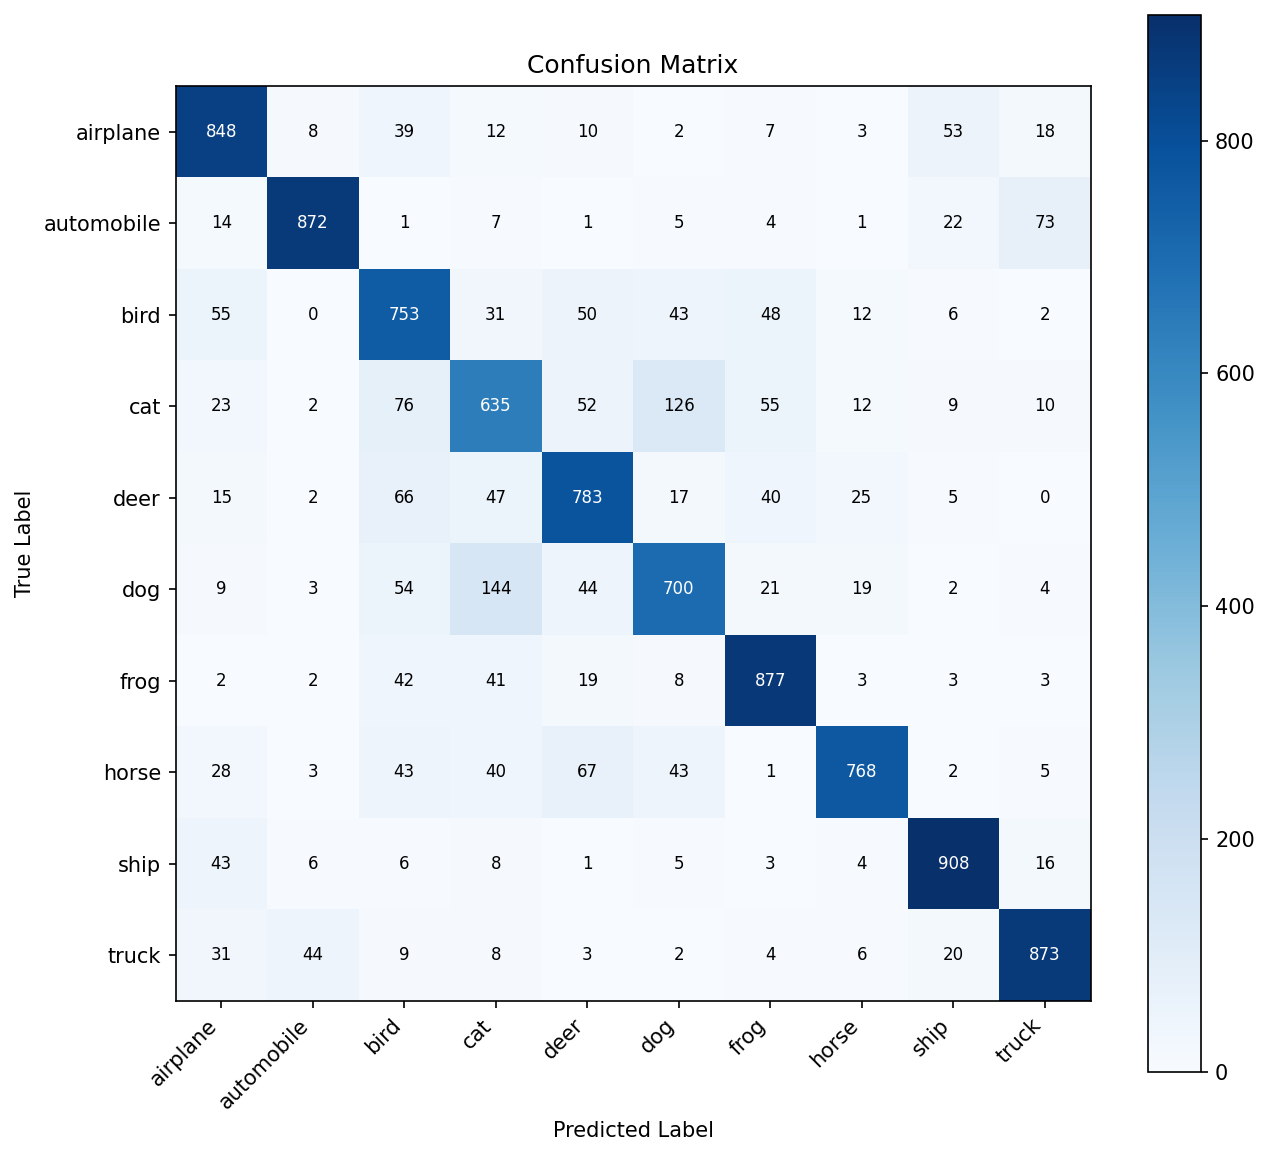
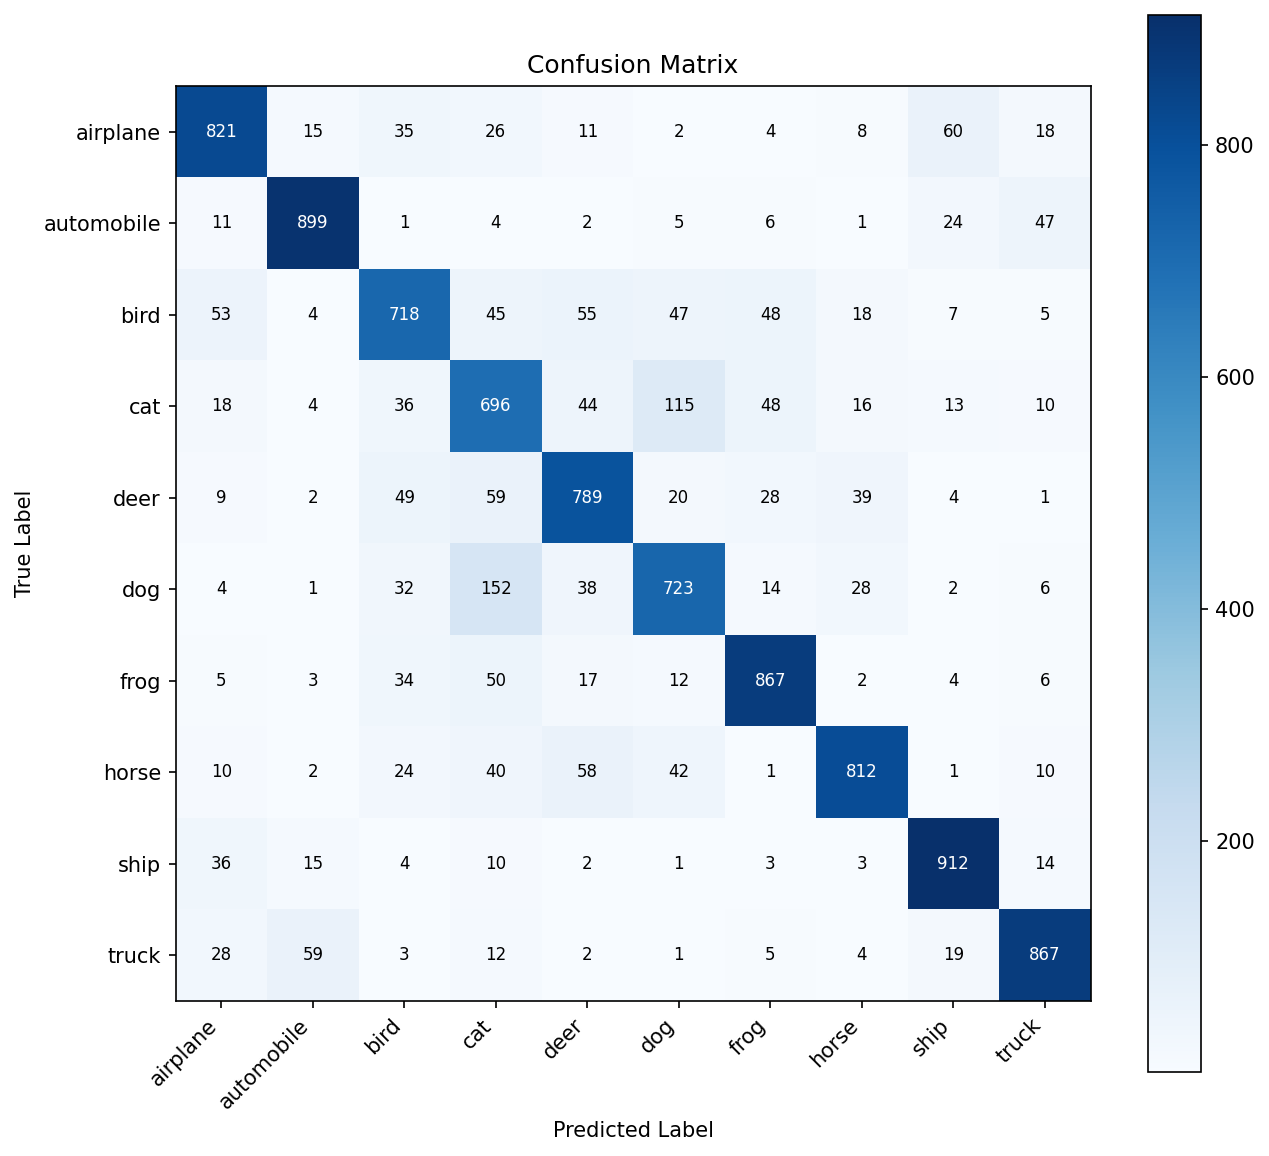
Update CIFAR-10 CNN project README with improved accuracy metrics and detailed training results. Enhance version descriptions and include visualizations for loss/accuracy curves and confusion matrix.

diff --git a/2_CIFAR10_CNN/README.md b/2_CIFAR10_CNN/README.md
@@ -8,9 +8,11 @@ A progressive CNN experiment on **CIFAR-10** (32x32 color images, 10 classes), e
 
 | Version | Description | Best Test Acc | Epochs | Key Change |
 |---------|------------|---------------|--------|------------|
-| v1 | Baseline CNN | **77.31%** | 20 (no early stop) | — |
-| v2 | + BatchNorm | **79.48%** | 17 (early stop) | BatchNorm after each Conv |
-| v3 | + LR Scheduler | — | — | ReduceLROnPlateau |
+| v1 | Baseline CNN | 77.31% | 20 / 20 | — |
+| v2 | + BatchNorm | 79.48% | 17 / 20 | BatchNorm after each Conv |
+| v3 | + LR Scheduler | **81.04%** | 32 / 50 | ReduceLROnPlateau |
+
+**Conclusion**: Scratch CNN ceiling is ~81%. Further gains require Transfer Learning or fundamentally different architectures.
 
 ---
 
@@ -37,13 +39,10 @@ Flatten → Linear(2048→256) → ReLU → Dropout(0.5)
 Linear(256→10)   ← raw logits for 10 classes
 ```
 
-### v2 — BatchNorm (`CIFAR10_CNN_BN`)
+### v2/v3 — BatchNorm (`CIFAR10_CNN_BN`)
 
 Same architecture, but each conv block becomes **Conv → BN → ReLU → Pool**.
-
-### v3 — LR Scheduler
-
-Same model as v2, with `ReduceLROnPlateau(mode='max', factor=0.5, patience=3)` added to adaptively halve the learning rate when test accuracy plateaus.
+v3 uses the same model as v2, with `ReduceLROnPlateau(mode='max', factor=0.5, patience=3)` to adaptively halve the learning rate when test accuracy plateaus.
 
 ---
 
@@ -73,7 +72,24 @@ Same model as v2, with `ReduceLROnPlateau(mode='max', factor=0.5, patience=3)` a
 
 ### v3 — LR Scheduler
 
-> Not yet trained. Run `python scripts/train_v3_scheduler.py` to generate results.
+| Metric | Value |
+|--------|-------|
+| Best Test Accuracy | **81.04%** (+1.56%) |
+| Stopped at Epoch | 32 / 50 (Early Stopping) |
+| Overfitting Gap | ~16% (Train 97% vs Test 81%) |
+
+![v3 Loss & Accuracy](results/v3_scheduler/loss_acc_curves.png)
+![v3 Confusion Matrix](results/v3_scheduler/confusion_matrix.png)
+
+#### LR Schedule Timeline
+
+```
+Epoch  1-19:  LR = 0.001000  (initial)
+Epoch 20:     LR = 0.000500  ← 1st reduction
+Epoch 26:     LR = 0.000250  ← 2nd reduction
+Epoch 31:     LR = 0.000125  ← 3rd reduction
+Epoch 32:     Early stopping triggered
+```
 
 ---
 
@@ -86,16 +102,32 @@ CIFAR-10 images are 32x32 RGB — more complex than MNIST's 28x28 grayscale. A t
 - **+2.17% test accuracy** (77.31% → 79.48%)
 - **Overfitting reduced**: the train-test gap shrank from ~15% to ~8%
 - **Faster convergence**: BN stabilizes internal activations, allowing the model to learn more efficiently
-- **Earlier stopping**: early stopping triggered at epoch 17 (v1 ran all 20 epochs)
+- **Earlier stopping**: early stopping triggered at epoch 17 (v1 ran all 20 epochs without triggering)
+
+### LR Scheduler Effect (v2 → v3)
+- **+1.56% test accuracy** (79.48% → 81.04%)
+- **Scheduler "rescued" the model from early stopping**: at epoch 19, patience was 3/5 and the model was stalling. LR reduction let it break through to 80.48% at epoch 21
+- **Diminishing returns per LR reduction**: 0.001→0.0005 gave +0.48%, 0.0005→0.00025 gave +0.28%, 0.00025→0.000125 gave nothing — a clear sign the architecture has hit its capacity limit
+- **Overfitting worsened**: BN had reduced the gap to ~8%, but the scheduler let training run longer (32 epochs), pushing the gap back to ~16%. Test accuracy went up slightly, but test loss kept rising — the model was getting more confident on its wrong predictions
 
 ### Most Confused Classes
-Both v1 and v2 consistently struggle with:
-- **cat ↔ dog** (similar body shapes, textures)
-- **cat → dog**: 133 (v1), 178 (v2)
-- **dog → cat**: 146 (v1), 117 (v2)
+All three versions consistently struggle with:
+- **cat ↔ dog** (similar body shapes and textures)
+- **dog → cat**: 146 (v1) → 117 (v2) → 152 (v3)
+- **cat → dog**: 133 (v1) → 178 (v2) → 115 (v3)
 - **bird ↔ deer** (overlapping background contexts)
 
 These reflect real visual ambiguity in CIFAR-10's low-resolution 32x32 images.
+
+### Architecture Ceiling
+The progression tells a clear story:
+
+```
+v1 → v2 → v3
+77%   79%   81%    (each technique adds less)
+```
+
+Scratch CNN with 3 conv layers tops out at ~81%. To go further, the next project will use Transfer Learning with pretrained models, where techniques like Data Augmentation also have much more impact (especially on smaller, custom datasets).
 
 ---
 
@@ -112,7 +144,7 @@ These reflect real visual ambiguity in CIFAR-10's low-resolution 32x32 images.
 ├── results/
 │   ├── v1/                   ← v1 checkpoint + plots
 │   ├── v2_BN/                ← v2 checkpoint + plots
-│   └── v3_scheduler/         ← v3 checkpoint + plots (after training)
+│   └── v3_scheduler/         ← v3 checkpoint + plots
 ├── data/                     ← CIFAR-10 downloaded here (gitignored)
 └── README.md
 ```

diff --git a/README.md b/README.md
@@ -10,7 +10,7 @@ Each project is self-contained with its own notebook, scripts, results, and READ
 | # | Project | Dataset | Best Accuracy | Status |
 |---|---|---|---|---|
 | 1 | [MNIST CNN](./1_MNIST_CNN/) | MNIST (handwritten digits) | 99.35% | ✅ Done |
-| 2 | [CIFAR-10 CNN](./2_CIFAR10_CNN/) | CIFAR-10 (10 object classes) | 79.48% | 🔄 In Progress |
+| 2 | [CIFAR-10 CNN](./2_CIFAR10_CNN/) | CIFAR-10 (10 object classes) | 81.04% | ✅ Done |
 | 3 | Basketball Action Classifier | Custom NBA dataset | — | 🔜 Planned |
 
 ---
@@ -19,8 +19,8 @@ Each project is self-contained with its own notebook, scripts, results, and READ
 
 ```
 1_MNIST_CNN          → CNN basics, PyTorch training loop, Early Stopping
-2_CIFAR10_CNN        → Color images, Batch Normalization, LR Scheduler
-3_Basketball_CNN     → Real-world data pipeline, Kaggle-style end-to-end project
+2_CIFAR10_CNN        → Color images, Batch Normalization, LR Scheduler (scratch CNN ceiling: ~81%)
+3_Basketball_CNN     → Transfer Learning, Data Augmentation, real-world data pipeline
 ```
 
 Each project answers:
